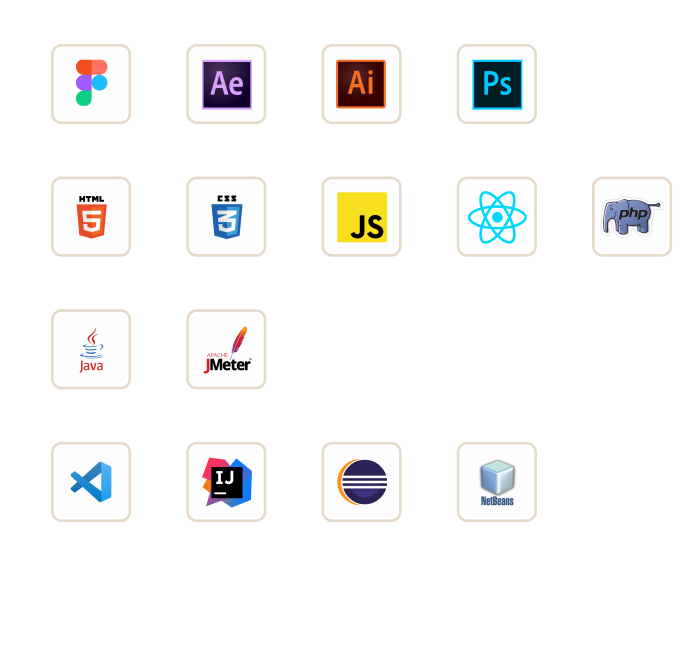
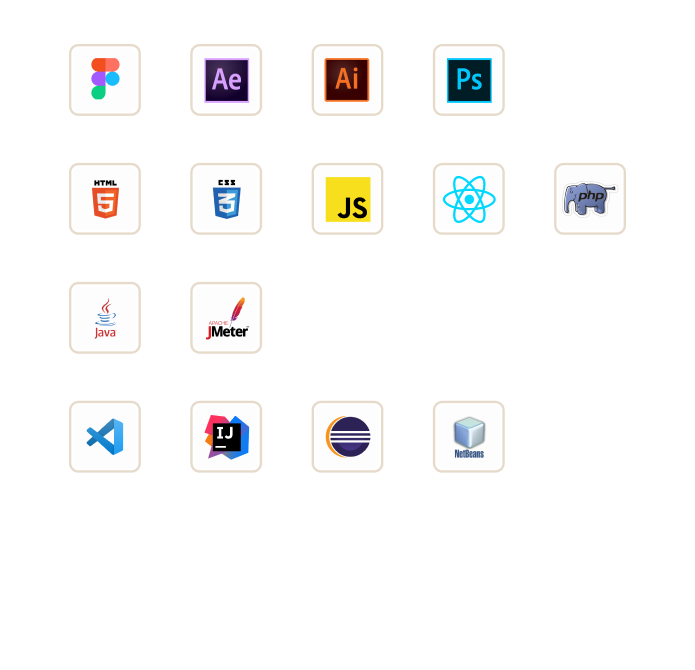
s

diff --git a/index.html b/index.html
@@ -61,23 +61,25 @@
       </div>
     </section>
 
-    //skills
+    <!-- skills -->
 
-    
-    <section class="about" id="about">
+
+    <section class="about" id="skills">
       <div class="title reveal">
         <h2 class="section-title">My Skills</h2>
       </div>
       <div class="content">
-        <div class="column col-left reveal">
-          <div class="img-card">
-            <img src="images/skill.png" alt="">
-          </div>
-        </div>
+
         <div class="column col-right reveal">
           <h2 class="content-title">My Skills and Experiences</h2>
           <p class="paragraph-text">I have the ability, both in terms of design and programming, here are the skills I have. I have experience in web development, website & mobile app user interface creation and more.
             here are some of the tools and programming I use</p>
+        </div>
+
+        <div class="column col-left reveal">
+          <div class="img-card">
+            <img src="images/skill.png" alt="">
+          </div>
         </div>
       </div>
     </section>

diff --git a/style.css b/style.css
@@ -195,7 +195,8 @@ body{
   width: 100%;
   display: flex;
   justify-content: space-between;
-  margin-top: 20px;
+  margin-top: 30px;
+  margin-bottom: -5rem;
 }
 
 .about .content .col-left{
@@ -648,7 +649,7 @@ body{
   .about .content .col-left .img-card img{
     position: absolute;
     top: 0;
-    left: 2rem;
+    left: 0;
     width: 100%;
     height: 100%;
     object-fit: cover;
